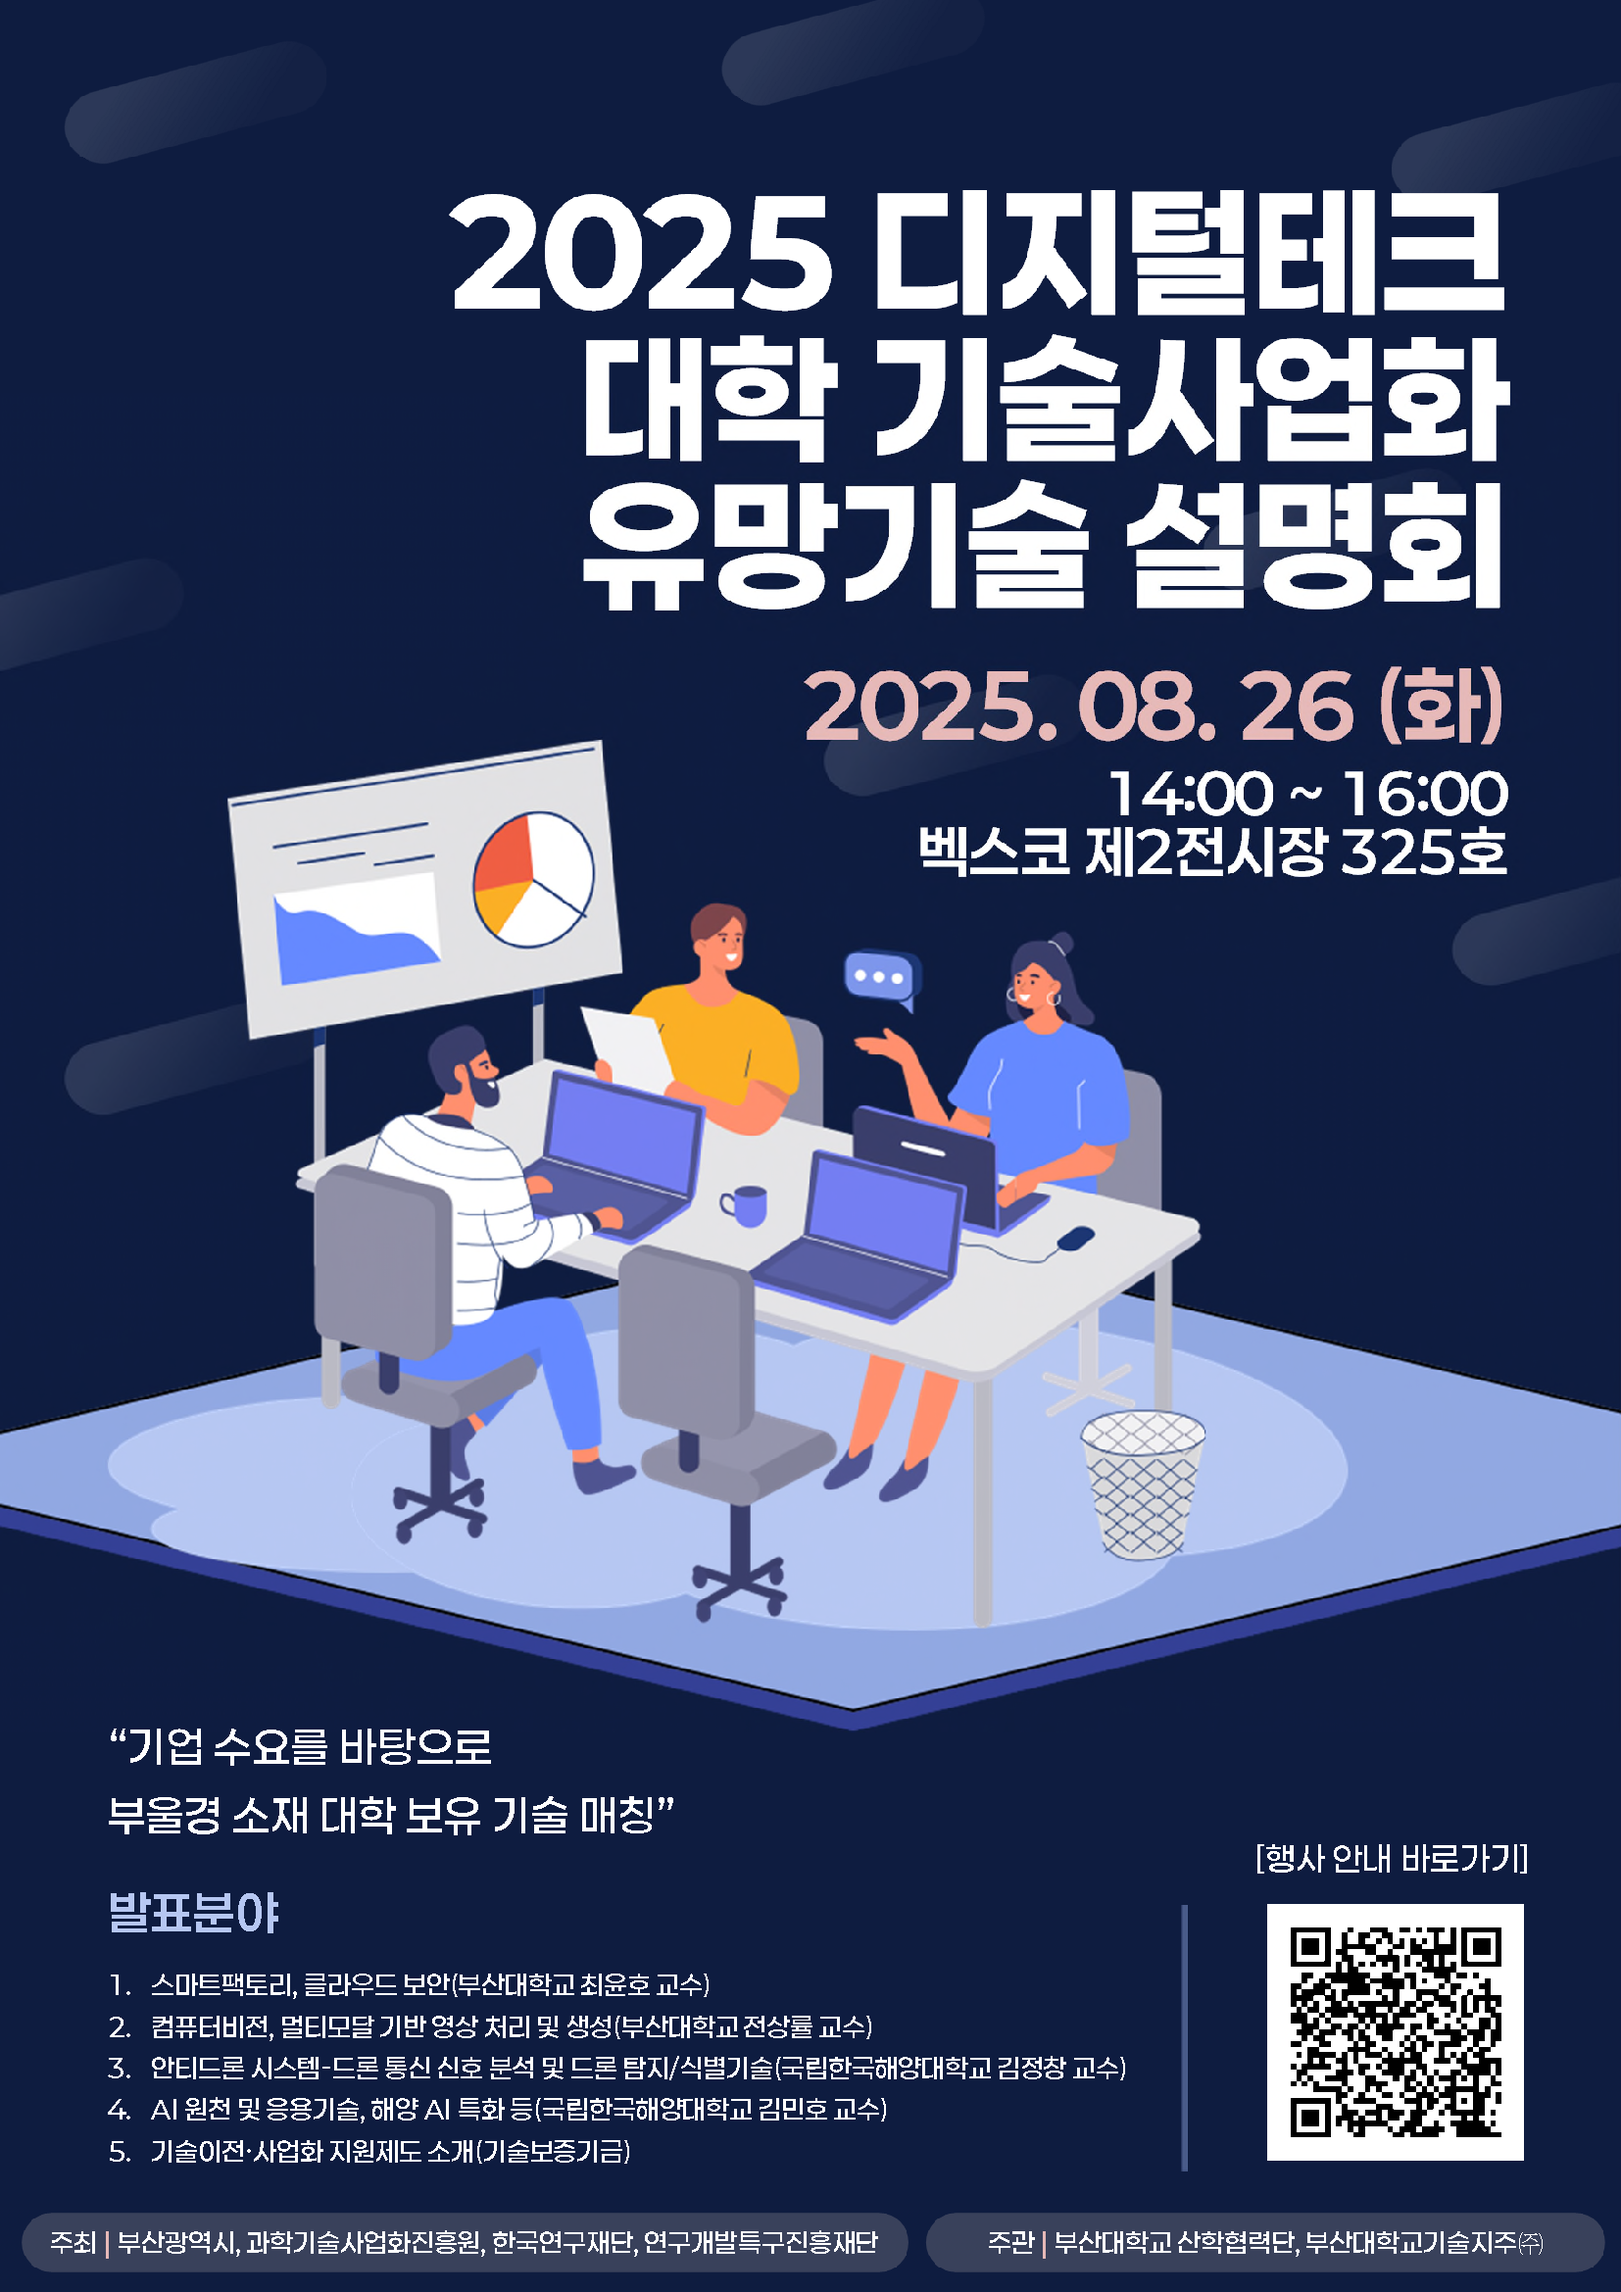
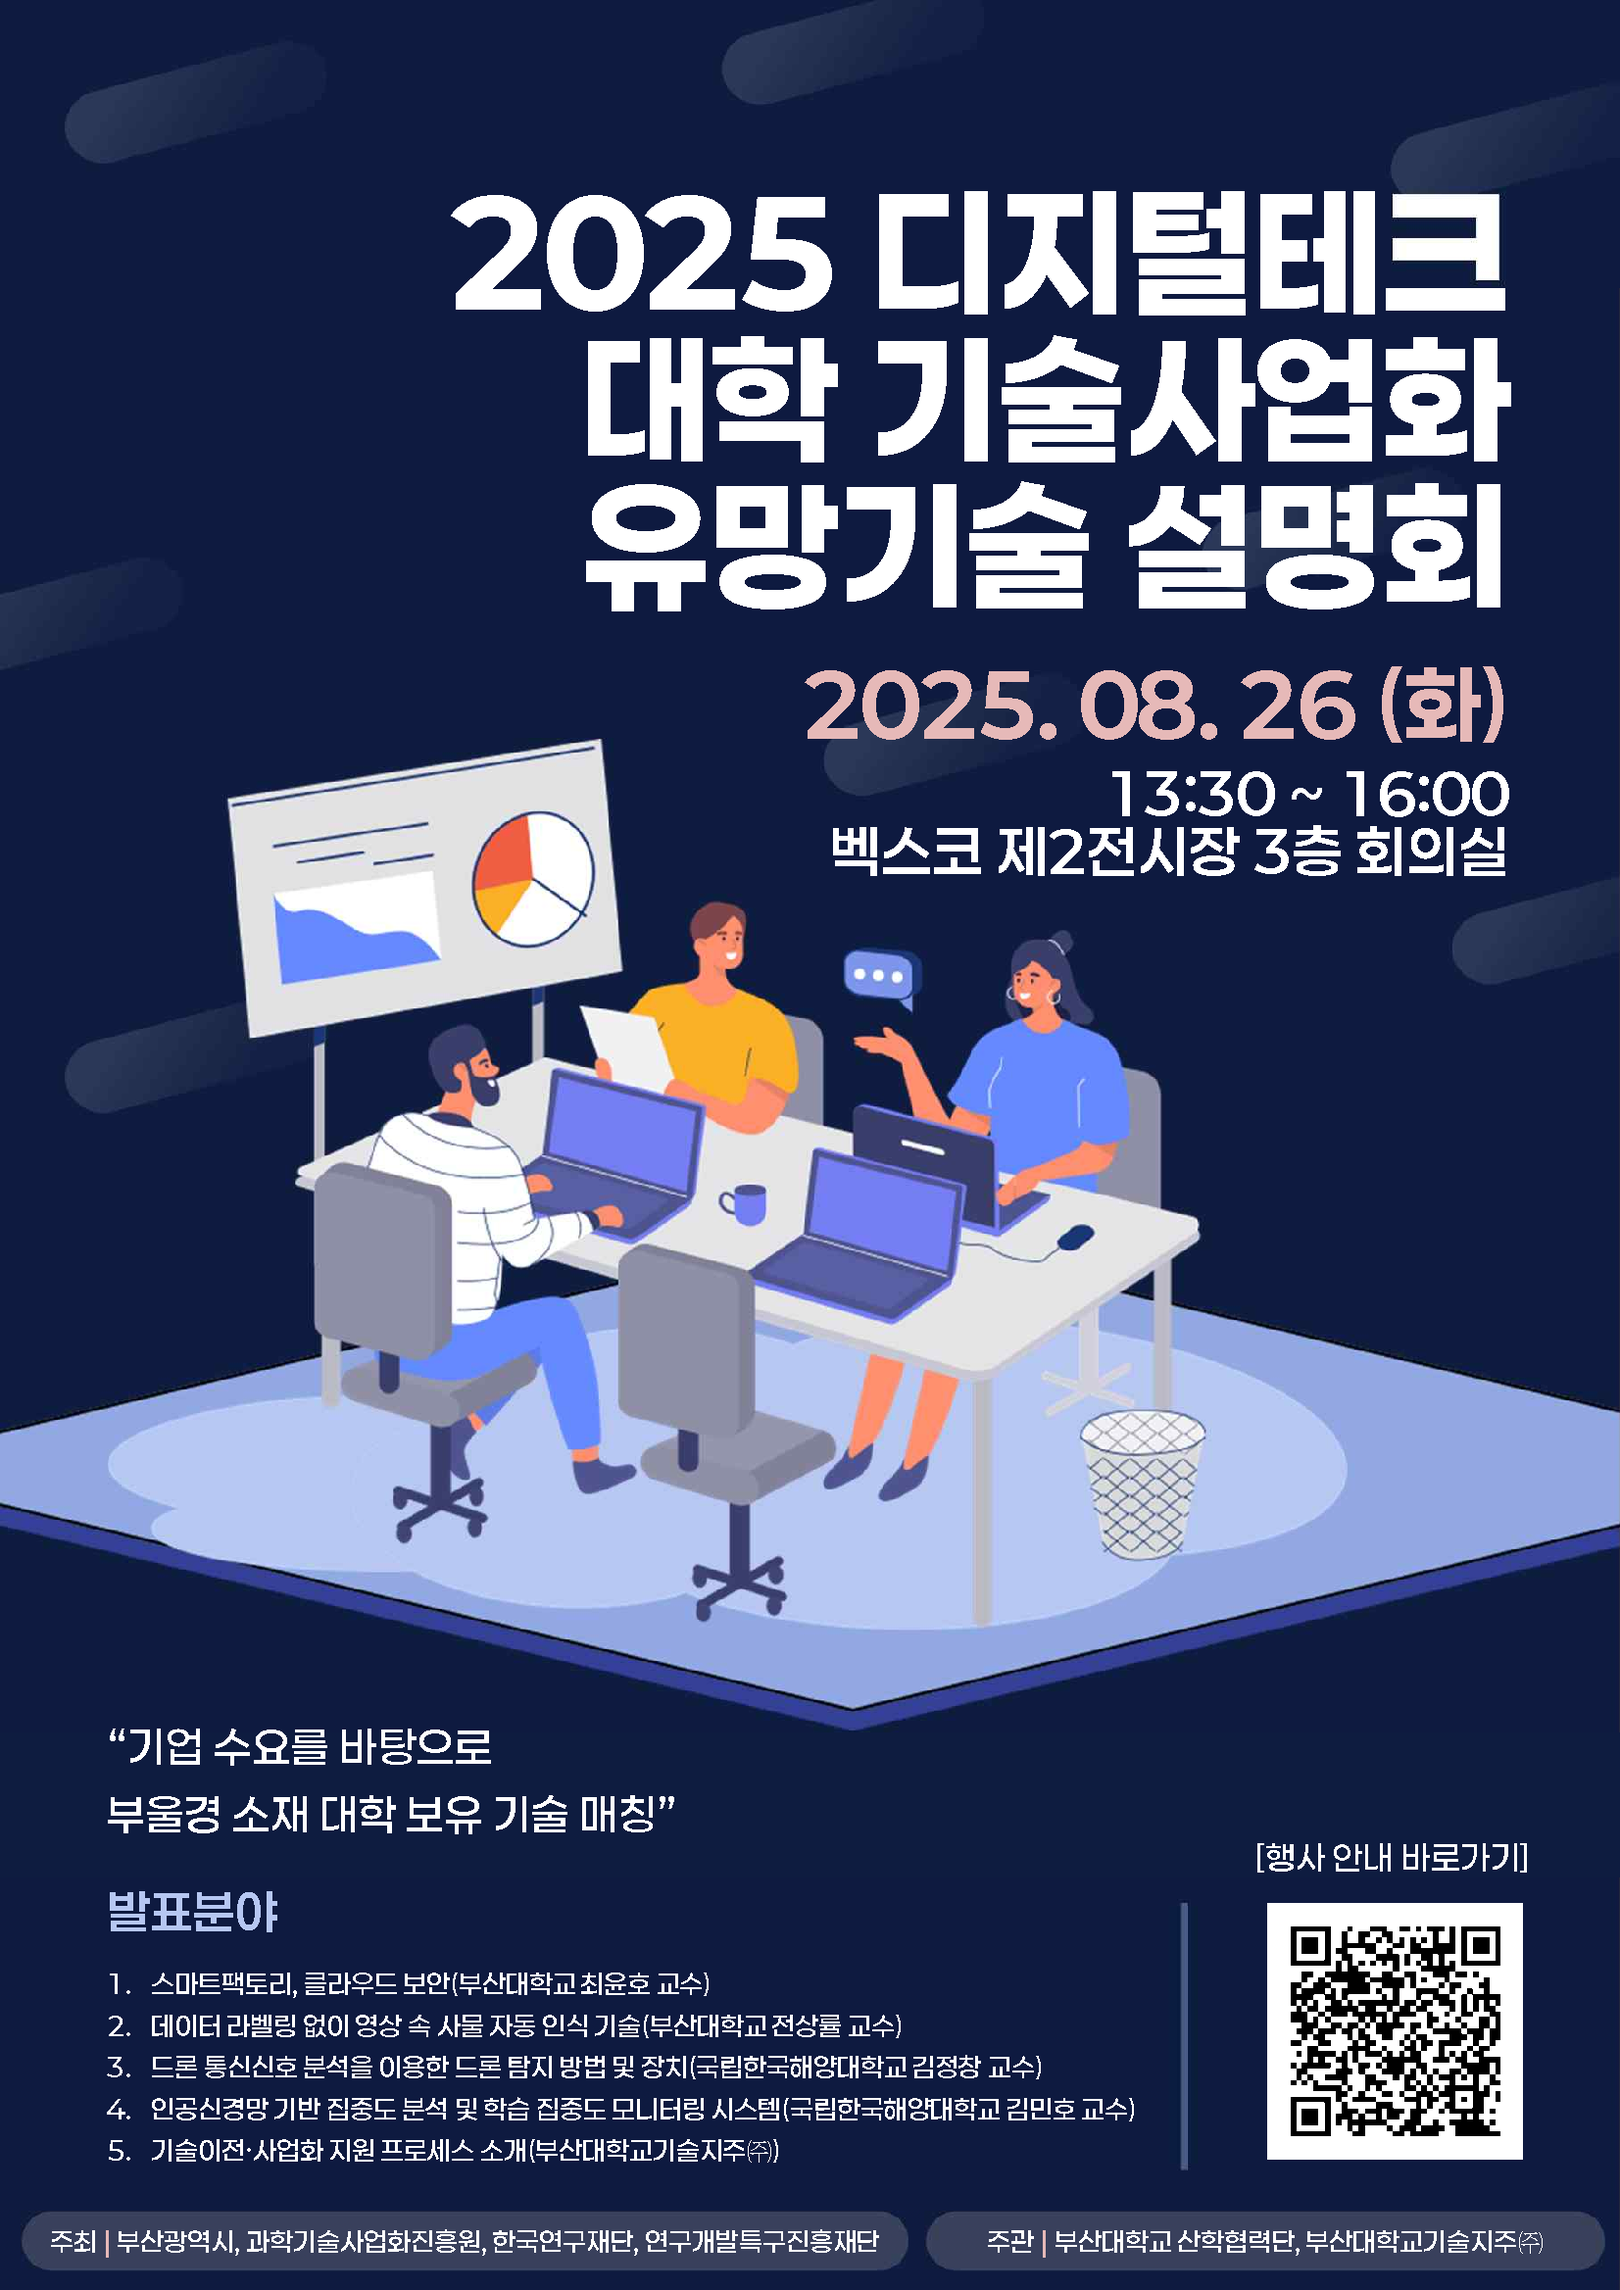
Fix: 포스터 및 바표자, 기술명 변경

diff --git a/app/page.tsx b/app/page.tsx
@@ -469,33 +469,33 @@ return (
                 <tbody>
                   <tr className="border-b border-gray-100 hover:bg-gray-50 transition-colors">
                     <td className="px-4 md:px-6 py-4 text-sm font-medium text-gray-900">14:00 - 14:20</td>
-                    <td className="px-4 md:px-6 py-4 text-sm text-gray-700">기술이전·사업화 지원제도 소개</td>
-                    <td className="px-4 md:px-6 py-4 text-sm text-gray-700">정해림 차장</td>
-                    <td className="px-4 md:px-6 py-4 text-sm text-gray-500">기술보증기금</td>
+                    <td className="px-4 md:px-6 py-4 text-sm text-gray-700">PNU 기술이전 · 사업화 지원 프로세스 소개</td>
+                    <td className="px-4 md:px-6 py-4 text-sm text-gray-700">최정식 과장</td>
+                    <td className="px-4 md:px-6 py-4 text-sm text-gray-500">부산대학교기술지주㈜</td>
                   </tr>
                   <tr className="bg-blue-50 border-b border-gray-100 hover:bg-blue-100 transition-colors">
                     <td className="px-4 md:px-6 py-4 text-sm font-medium text-gray-900">14:20 - 14:40</td>
-                    <td className="px-4 md:px-6 py-4 text-sm text-gray-700">스마트팩토리, 클라우드 보안</td>
+                    <td className="px-4 md:px-6 py-4 text-sm text-gray-700">AI 기반 스마트팩토리 작업 자동화 기술, 제로 트러스트 클라우드 보안</td>
                     <td className="px-4 md:px-6 py-4 text-sm text-gray-700">최윤호 교수</td>
                     <td className="px-4 md:px-6 py-4 text-sm text-gray-500">부산대학교</td>
                   </tr>
                   <tr className="border-b border-gray-100 hover:bg-gray-50 transition-colors">
                     <td className="px-4 md:px-6 py-4 text-sm font-medium text-gray-900">14:40 - 15:00</td>
-                    <td className="px-4 md:px-6 py-4 text-sm text-gray-700">컴퓨터비전, 멀티모달 기반 영상 처리 및 생성</td>
+                    <td className="px-4 md:px-6 py-4 text-sm text-gray-700">데이터 라벨링 없이 영상 속 사물 자동 인식 기술</td>
                     <td className="px-4 md:px-6 py-4 text-sm text-gray-700">전상률 교수</td>
                     <td className="px-4 md:px-6 py-4 text-sm text-gray-500">부산대학교</td>
                   </tr>
                   <tr className="bg-blue-50 border-b border-gray-100 hover:bg-blue-100 transition-colors">
                     <td className="px-4 md:px-6 py-4 text-sm font-medium text-gray-900">15:00 - 15:20</td>
                     <td className="px-4 md:px-6 py-4 text-sm text-gray-700">
-                      안티드론 시스템 (드론 통신 신호 분석 및 드론 탐지/식별기술)
+                      드론 통신신호 분석을 이용한 드론 탐지 방법 및 장치
                     </td>
                     <td className="px-4 md:px-6 py-4 text-sm text-gray-700">김정창 교수</td>
                     <td className="px-4 md:px-6 py-4 text-sm text-gray-500">국립한국해양대학교</td>
                   </tr>
                   <tr className="border-b border-gray-100 hover:bg-gray-50 transition-colors">
                     <td className="px-4 md:px-6 py-4 text-sm font-medium text-gray-900">15:20 - 15:40</td>
-                    <td className="px-4 md:px-6 py-4 text-sm text-gray-700">AI 원천 및 응용기술, 해양 AI 특화 등</td>
+                    <td className="px-4 md:px-6 py-4 text-sm text-gray-700">인공신경망 기반 집중도 분석 및 학습 집중도 모니터링 시스템</td>
                     <td className="px-4 md:px-6 py-4 text-sm text-gray-700">김민호 교수</td>
                     <td className="px-4 md:px-6 py-4 text-sm text-gray-500">국립한국해양대학교</td>
                   </tr>
